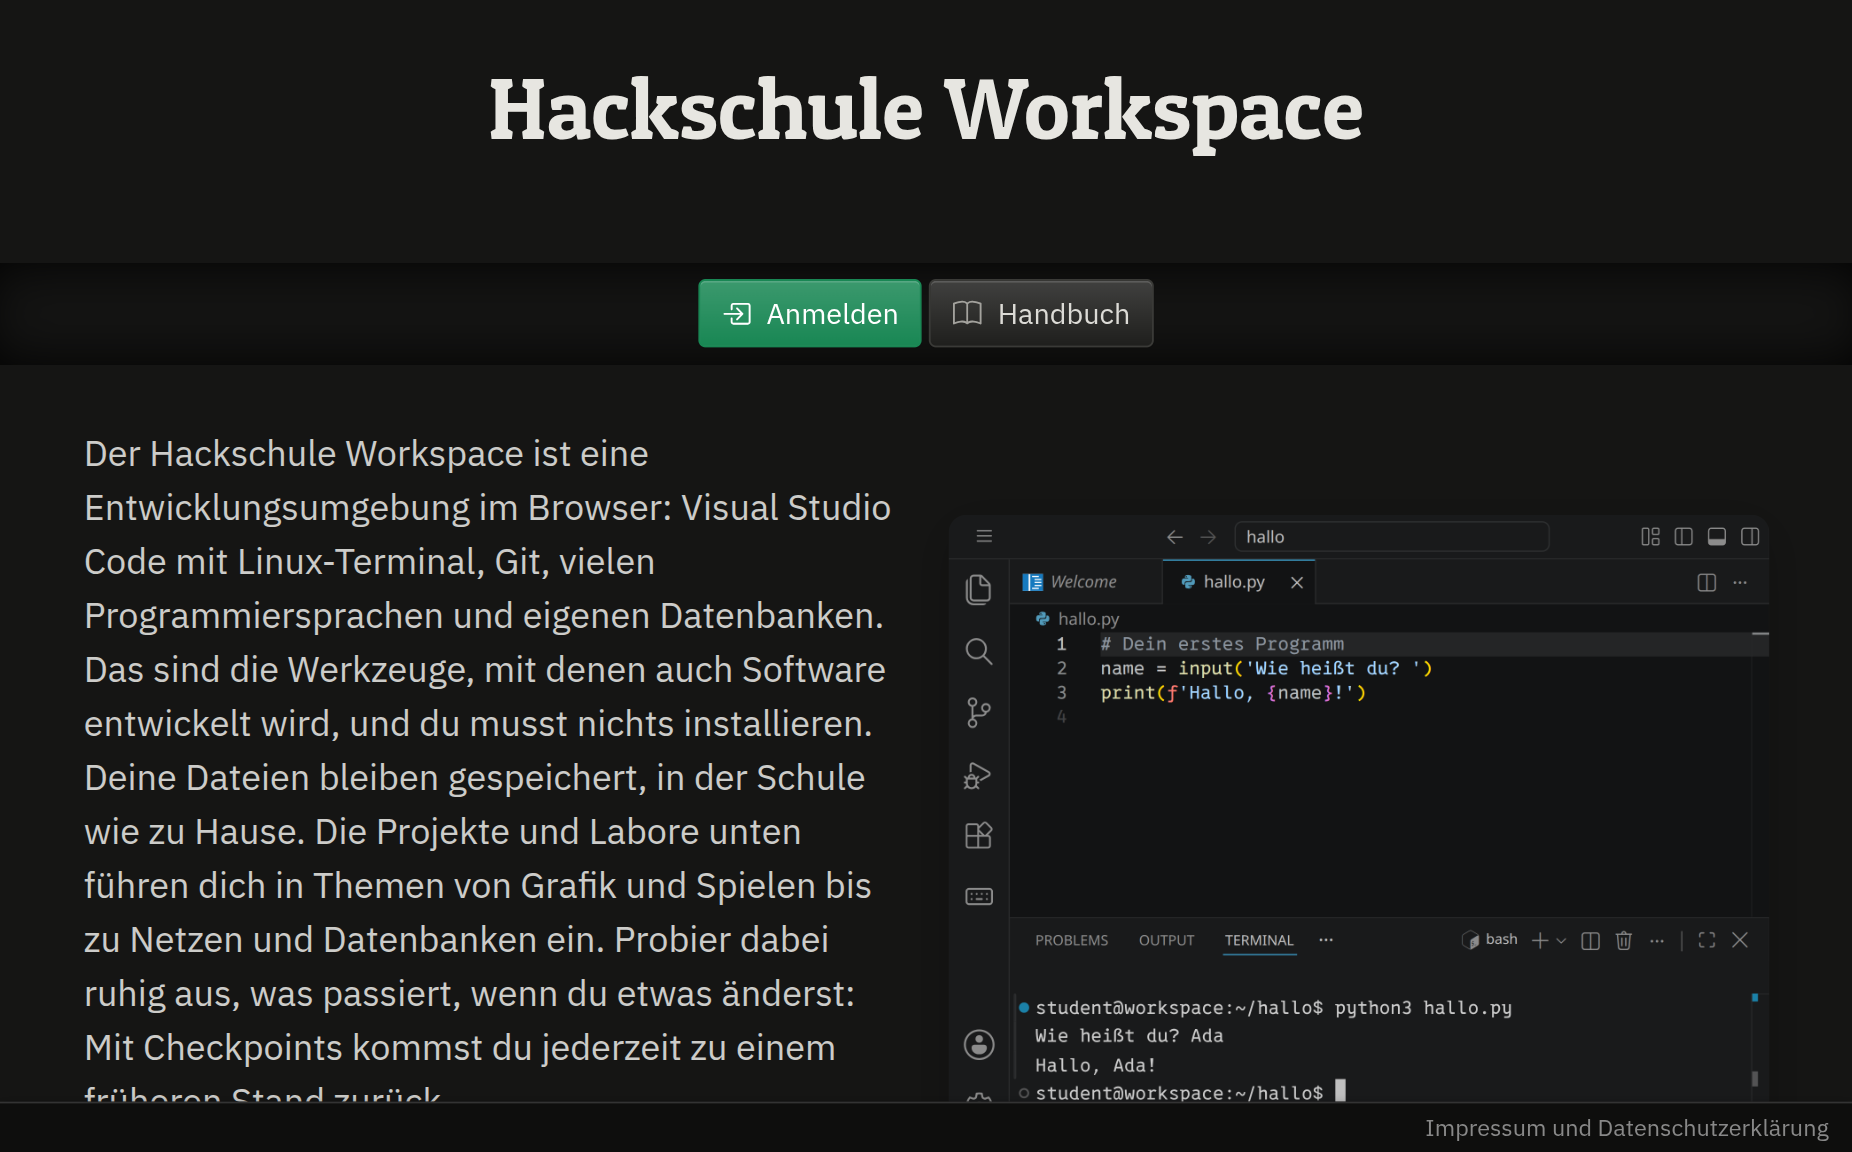
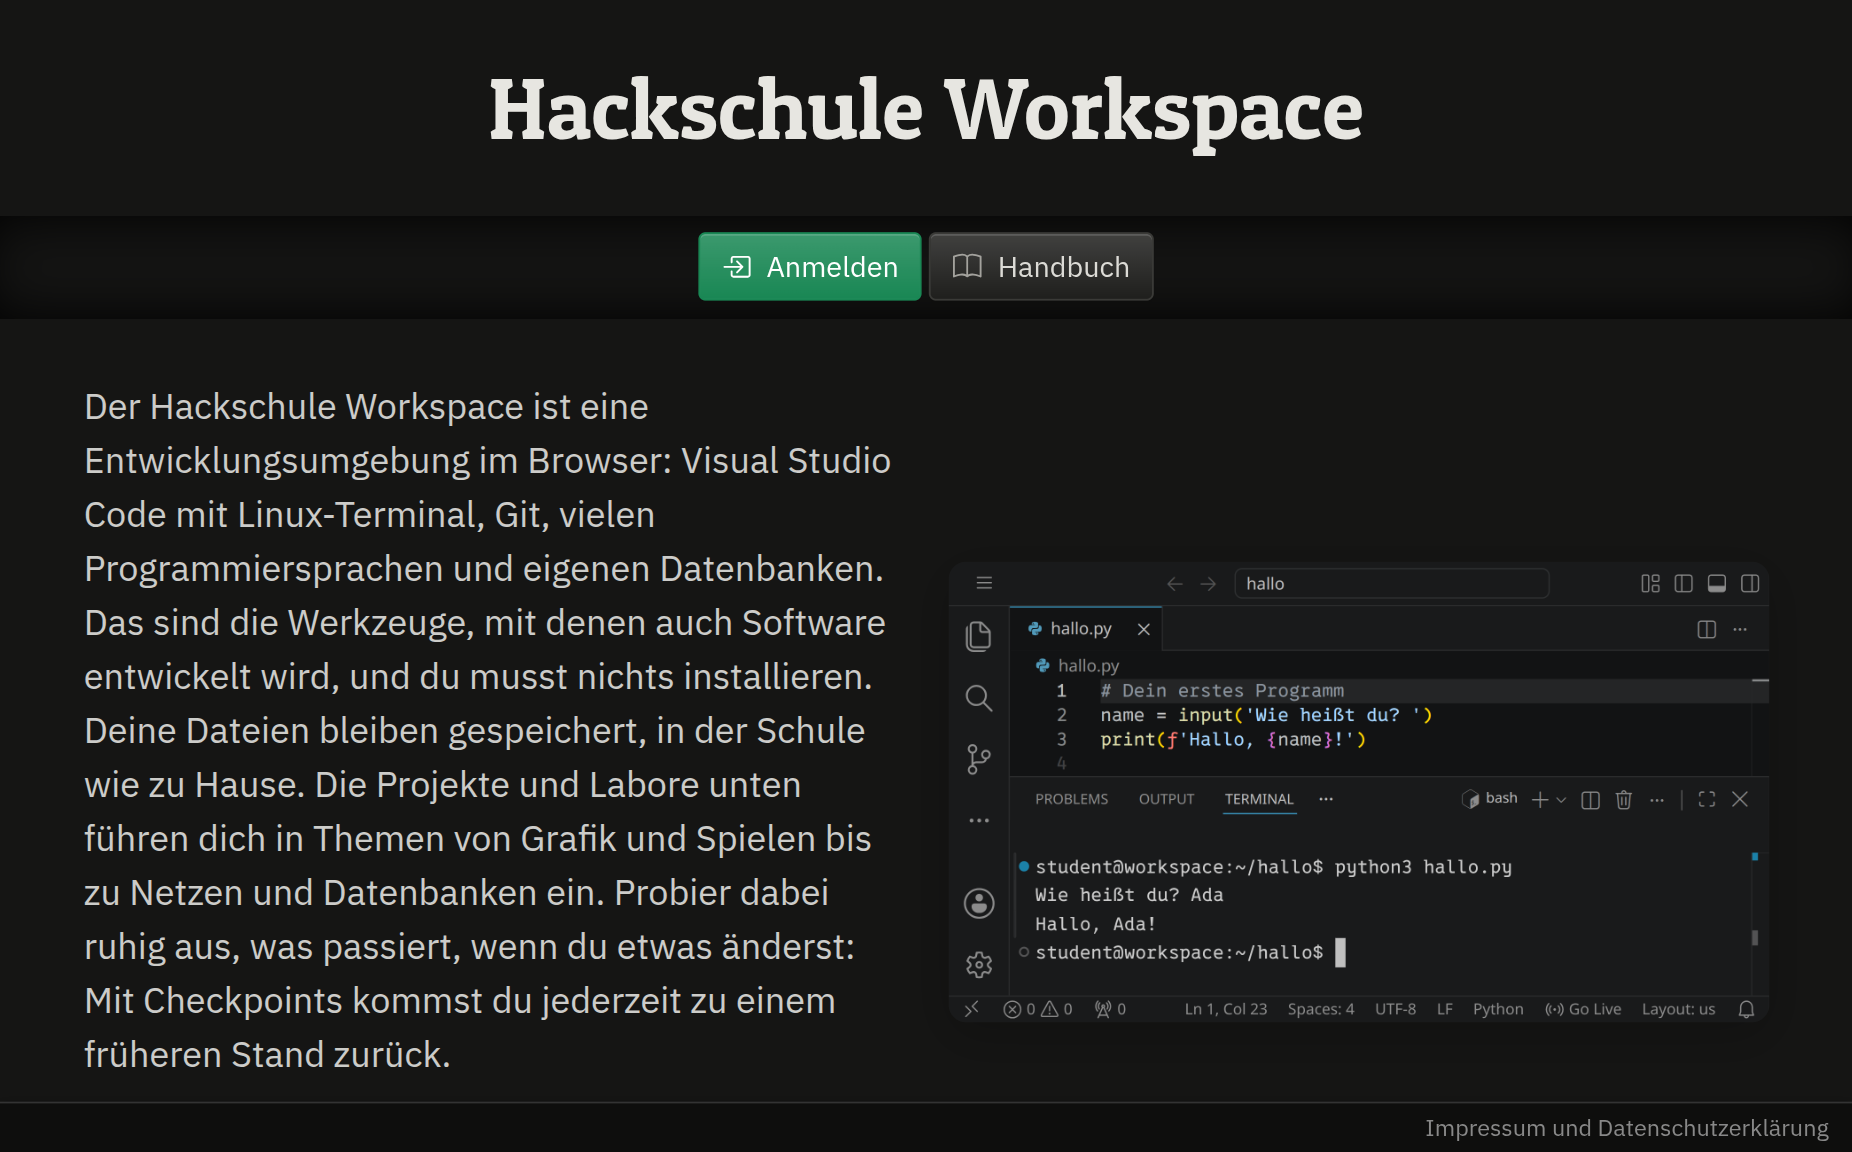
Start page picture: the heading in the middle of the header
The hook hid the sponsor line with visibility: hidden, which kept its
height below the heading; display: none takes the line out. The card
crops the picture from the top now, so the whole header shows.

diff --git a/CHANGELOG.md b/CHANGELOG.md
@@ -649,6 +649,10 @@ Jeder Eintrag sagt, was sich für Lernende, Lehrkräfte und Betreibende ändert.
 
 ### Geändert
 
+- Das Bild der Startseite auf der Karte »Was ist der Hackschule
+  Workspace?« zeigt die Überschrift in der Mitte des Kopfes: Die Zeile mit
+  dem Sponsor fehlt jetzt samt ihrem Platz, und die Karte schneidet das Bild
+  von oben zu.
 - Die Prüfungen in Ruby und Python laden von der Datei der Lernenden nur
   die Definitionen: Methoden und Funktionen, Klassen, Konstanten, Importe
   und was eine Tabelle füllt. Das Programm unten in der Datei läuft beim
@@ -1285,6 +1289,15 @@ Jeder Eintrag sagt, was sich für Lernende, Lehrkräfte und Betreibende ändert.
 
 ### Für Betreibende
 
+- Der Screenshot-Generator sieht nur noch die Version von code-server als
+  Aussehen des Workspaces, nicht die Paketrevision von linuxserver
+  (`4.138.0-ls366` und `-ls367` gelten als gleich). Das Image baut auf dem
+  Tag `4.138.0`, der von Zeit zu Zeit auf eine neue Revision springt; zwei
+  Rechner, die es an verschiedenen Tagen gebaut haben, hielten bisher die
+  Screenshots des anderen für veraltet und rechneten sie neu. Ein Abgleich
+  schreibt auch keine neue Revision mehr in die Manifeste. Nach dem Update
+  den Dienst neu bauen: `./config.rb build tutorial_screenshots &&
+  ./config.rb up -d tutorial_screenshots`.
 - Neu und abgeschaltet: der Fallserver für »Ein Krimi im Terminal«, zwei
   kleine SSH-Server (`case_museum`, `case_alarm`). Einschalten mit
   `CASE_SERVER = true` in `credentials.rb`, dann

diff --git a/src/content/about/about.md b/src/content/about/about.md
@@ -1,5 +1,5 @@
 <div class='meta'>
-image: start-page.webp
+image: start-page.webp:50:0
 kind: grundlagen
 </div>
 
